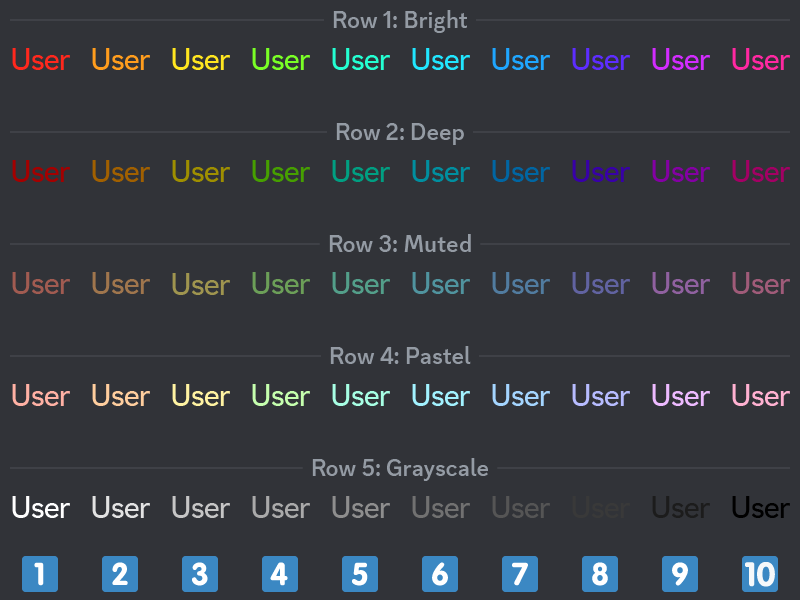
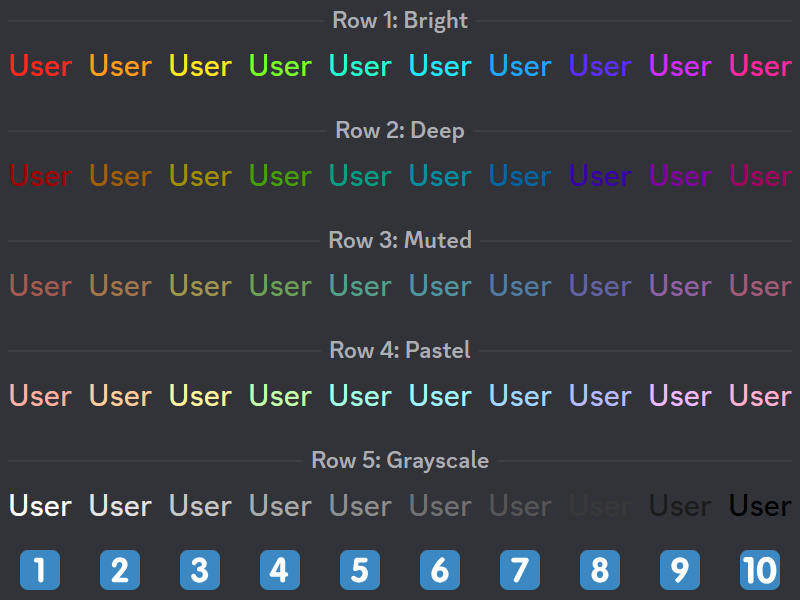
Updated og-image. Generate og-image. Moved `createSection` function to `_utils.js` to share between modules.

diff --git a/src/og-image.js b/src/og-image.js
@@ -1,0 +1,69 @@
+import { swatches } from './colors.js';
+
+import { createSection } from './_utils.js';
+
+import './app.scss';
+import './og-image.scss';
+
+const app = document.getElementById('app');
+
+/**
+ * @param {string} color - HEX color code string (like `#fff` or `#ff0000`)
+ */
+function createPreview(color) {
+  const preview = document.createElement('div');
+  preview.className = 'preview';
+  preview.innerText = 'User';
+  preview.style.color = color;
+
+  app.appendChild(preview);
+}
+
+let index = 1;
+
+for (const [shadeName, hues] of Object.entries(swatches)) {
+  app.appendChild(createSection(`Row ${index++}: ${shadeName}`));
+
+  for (const color of Object.values(hues)) {
+    createPreview(color);
+  }
+}
+
+const numbers = [
+  // https://discord.com/assets/83f7cb2c2f4230cd.svg
+  'M16.462 11.175h-1.829c-1.488 0-2.108-1.085-2.108-2.139 0-1.085.775-2.14 2.108-2.14h4.402c1.334 0 2.078.961 2.078 2.201V26.74c0 1.551-.992 2.418-2.326 2.418-1.333 0-2.325-.867-2.325-2.418V11.175z',
+
+  // https://discord.com/assets/f36ae3caed2a0bae.svg
+  'M23.086 24.907c1.365 0 2.42.62 2.42 2.046 0 1.427-1.055 2.047-2.233 2.047H12.917c-1.364 0-2.418-.62-2.418-2.047 0-.65.403-1.209.713-1.581 2.573-3.069 5.364-5.86 7.721-9.271.558-.806 1.085-1.768 1.085-2.884 0-1.271-.961-2.387-2.233-2.387-3.566 0-1.86 5.023-4.837 5.023-1.488 0-2.264-1.054-2.264-2.264 0-3.906 3.473-7.038 7.287-7.038 3.815 0 6.883 2.512 6.883 6.449 0 4.309-4.805 8.589-7.441 11.906h5.673z',
+
+  // https://discord.com/assets/a20044fbde269579.svg
+  'M24.109 12.226c0 1.954-.836 3.659-2.542 4.744 2.232 1.024 3.782 3.101 3.782 5.55 0 3.721-3.41 6.853-7.813 6.853-4.589 0-7.441-3.38-7.441-5.829 0-1.209 1.272-2.077 2.388-2.077 2.108 0 1.612 3.628 5.116 3.628 1.612 0 2.915-1.24 2.915-2.884 0-4.341-5.272-1.147-5.272-4.806 0-3.255 4.402-1.054 4.402-4.496 0-1.179-.836-2.078-2.232-2.078-2.945 0-2.542 3.038-4.651 3.038-1.271 0-2.015-1.147-2.015-2.294 0-2.418 3.317-5.023 6.759-5.023 4.466 0 6.604 3.256 6.604 5.674z',
+
+  // https://discord.com/assets/9d281daf39198aee.svg
+  'M10.769 24.132c-1.519 0-2.17-1.022-2.17-1.829 0-.682.248-1.055.434-1.364L15.979 8.35c.682-1.24 1.55-1.798 3.162-1.798 1.799 0 3.566 1.147 3.566 3.969v9.519h.527c1.209 0 2.17.807 2.17 2.047 0 1.24-.961 2.046-2.17 2.046h-.527v2.636c0 1.644-.651 2.418-2.232 2.418-1.581 0-2.233-.774-2.233-2.418v-2.636h-7.473zm7.473-12.743h-.062l-4.186 8.65h4.248v-8.65z',
+
+  // https://discord.com/assets/f95942f91cba7deb.svg
+  'M16.389 14.489c.744-.155 1.551-.31 2.326-.31 3.752 0 6.418 2.977 6.418 6.604 0 5.178-2.851 8.589-8.216 8.589-2.201 0-6.821-1.427-6.821-4.155 0-1.147.961-2.107 2.108-2.107 1.24 0 2.729 1.984 4.806 1.984 2.17 0 3.288-2.109 3.288-4.062 0-1.86-1.055-3.131-2.977-3.131-1.799 0-2.078 1.023-3.659 1.023-1.209 0-1.829-.93-1.829-1.457 0-.403.062-.713.093-1.054l.774-6.544c.341-2.418.93-2.945 2.418-2.945h7.472c1.428 0 2.264.837 2.264 1.953 0 2.14-1.611 2.326-2.17 2.326h-5.829l-.466 3.286z',
+
+  // https://discord.com/assets/7504750907e02c2d.svg
+  'M10.219 21.683c0-4.682 4.744-11.255 7.875-14.17.248-.248.62-.496.992-.744.341-.217.683-.217.931-.217.867 0 2.201 1.147 2.201 2.264 0 .434-.279.806-.651 1.271-1.24 1.519-3.255 3.503-4.279 4.961l.062.062c.558-.248 1.271-.372 1.954-.372 3.721 0 6.479 3.287 6.479 6.945 0 4.03-3.194 7.69-7.783 7.69-4.773-.001-7.781-3.566-7.781-7.69zm4.837 0c0 1.736 1.085 3.225 2.945 3.225 1.768 0 2.946-1.427 2.946-3.225 0-1.643-.992-3.225-2.946-3.225-1.767 0-2.945 1.396-2.945 3.225z',
+
+  // https://discord.com/assets/a16a65c71b971e39.svg
+  'M20.357 11.203H12.42c-1.674 0-2.294-1.085-2.294-2.139 0-1.085.589-2.14 2.294-2.14h11.224c1.582 0 2.233 1.426 2.233 2.232 0 .62-.341 1.271-.713 2.046l-7.69 15.627c-.868 1.736-1.209 2.355-2.604 2.355-1.705 0-2.574-1.302-2.574-2.201 0-.372.093-.65.311-1.085l7.75-14.695z',
+
+  // https://discord.com/assets/8d07c04be46c55e5.svg
+  'M10.343 22.303c0-2.48 1.364-4.309 3.317-5.364-1.457-1.054-2.356-2.48-2.356-4.434 0-3.628 3.008-5.953 6.697-5.953 3.596 0 6.729 2.294 6.729 5.953 0 1.736-.869 3.473-2.389 4.434 2.109 1.055 3.318 2.977 3.318 5.364 0 4.31-3.504 7.069-7.659 7.069-4.277 0-7.657-2.915-7.657-7.069zm4.837-.311c0 1.582.93 3.102 2.821 3.102 1.768 0 2.822-1.52 2.822-3.102 0-1.953-1.116-3.1-2.822-3.1-1.797 0-2.821 1.364-2.821 3.1zm.589-8.991c0 1.395.807 2.356 2.232 2.356 1.426 0 2.264-.961 2.264-2.356 0-1.333-.807-2.357-2.264-2.357-1.457 0-2.232 1.024-2.232 2.357z',
+
+  // https://discord.com/assets/b3453b9faf8e5545.svg
+  'M25.784 14.241c0 4.682-4.743 11.255-7.875 14.17-.248.248-.62.496-.992.744-.341.217-.682.217-.93.217-.868 0-2.202-1.148-2.202-2.264 0-.434.279-.806.651-1.271 1.24-1.52 3.256-3.504 4.279-4.961l-.062-.062c-.558.248-1.271.372-1.953.372-3.721 0-6.48-3.287-6.48-6.945 0-4.031 3.193-7.689 7.782-7.689 4.775 0 7.782 3.565 7.782 7.689zm-4.837 0c0-1.736-1.086-3.225-2.946-3.225-1.767 0-2.945 1.426-2.945 3.225 0 1.644.992 3.225 2.945 3.225 1.769 0 2.946-1.396 2.946-3.225z',
+
+  // https://discord.com/assets/b2a2914a003dec8d.svg
+  'M7.213 10.975H5.255C3.663 10.975 3 9.814 3 8.686c0-1.16.829-2.288 2.255-2.288h4.71c1.426 0 2.223 1.028 2.223 2.354v18.875c0 1.658-1.062 2.586-2.488 2.586s-2.487-.928-2.487-2.586V10.975zm7.967 7.231C15.18 12.799 17.27 6 23.97 6c6.7 0 8.791 6.799 8.791 12.206 0 5.406-2.091 12.207-8.791 12.207s-8.79-6.801-8.79-12.207zm12.406 0c0-2.521-.232-7.696-3.616-7.696-3.383 0-3.615 5.175-3.615 7.696 0 2.355.232 7.695 3.615 7.695 3.384 0 3.616-5.339 3.616-7.695z',
+];
+
+for (const number of numbers) {
+  app.insertAdjacentHTML(
+    'beforeend',
+    `<div class="number"><svg viewBox="0 0 36 36"><path d="${number}"/></svg></div>`,
+  );
+}

diff --git a/src/app.js b/src/app.js
@@ -2,6 +2,8 @@ import { Horizontal } from '@brybrant/fade-scroll';
 
 import { swatches } from './colors.js';
 
+import { createSection } from './_utils.js';
+
 import GitHubSVG from '../node_modules/@brybrant/svg-icons/GitHub.svg';
 
 import './app.scss';
@@ -79,22 +81,6 @@ app.appendChild(themeContainer);
 const previews = [];
 
 /**
- * @param {string} name - Name of the section
- */
-function createSection(name) {
-  const hr = document.createElement('div');
-  hr.className = 'hr';
-
-  hr.appendChild(document.createElement('hr'));
-
-  const hrLabel = document.createElement('h2');
-  hrLabel.innerText = name;
-  hr.appendChild(hrLabel);
-
-  app.appendChild(hr);
-}
-
-/**
  * @param {string} name - Name of the color
  * @param {string} color - HEX color code string (like `#fff` or `#ff0000`)
  */
@@ -140,7 +126,7 @@ function createSwatch(name, color) {
 
 // Colors
 for (const [shadeName, hues] of Object.entries(swatches)) {
-  createSection(shadeName);
+  app.appendChild(createSection(shadeName));
 
   for (const [hueName, color] of Object.entries(hues)) {
     if (shadeName === 'Grayscale') {

diff --git a/src/og-image.scss b/src/og-image.scss
@@ -1,0 +1,53 @@
+#app {
+  width: 400px !important;
+  height: 300px !important;
+  margin: 20px auto;
+  padding: 0;
+
+  &:after {
+    content: '';
+    position: absolute;
+    inset: -1px;
+    border: 1px solid #000;
+    pointer-events: none;
+  }
+}
+
+.hr {
+  margin: 10px 0;
+  padding: 0 4px;
+}
+
+.preview {
+  width: 10%;
+  margin-bottom: 12px;
+  font-weight: 500;
+  font-size: 1rem;
+  line-height: 1.375rem;
+}
+
+$number-size: 20px;
+
+.number {
+  position: relative;
+  width: 10%;
+  height: $number-size;
+
+  svg {
+    vertical-align: top;
+    width: $number-size;
+    height: $number-size;
+    margin-top: -$number-size;
+    fill: #fff;
+  }
+
+  &:before {
+    content: '';
+    display: block;
+    width: $number-size;
+    height: 100%;
+    margin: 0 auto;
+    border-radius: 4px;
+    background: #3B88C3;
+  }
+}

diff --git a/og-image.html b/og-image.html
@@ -1,0 +1,14 @@
+<!doctype html>
+<html class='ash-theme' lang='en'>
+  <head>
+    <meta charset='UTF-8'/>
+    <link rel='icon' type='image/svg+xml' href='/favicon.svg'/>
+    <meta name='viewport' content='width=device-width, initial-scale=1.0'/>
+    <meta name='darkreader-lock'/>
+    <title>og-image</title>
+  </head>
+  <body>
+    <div id='app'></div>
+    <script type='module' src='/src/og-image.js'></script>
+  </body>
+</html>

diff --git a/src/_utils.js b/src/_utils.js
@@ -1,0 +1,15 @@
+/**
+ * @param {string} name - Name of the section
+ */
+export function createSection(name) {
+  const hr = document.createElement('div');
+  hr.className = 'hr';
+
+  hr.appendChild(document.createElement('hr'));
+
+  const hrLabel = document.createElement('h2');
+  hrLabel.innerText = name;
+  hr.appendChild(hrLabel);
+
+  return hr;
+}
